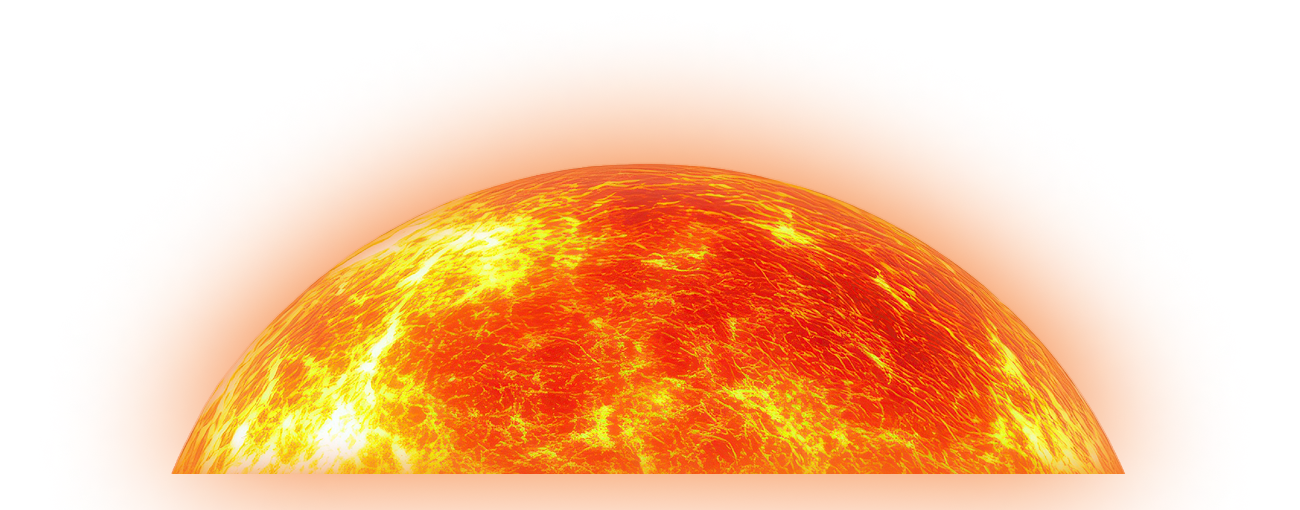
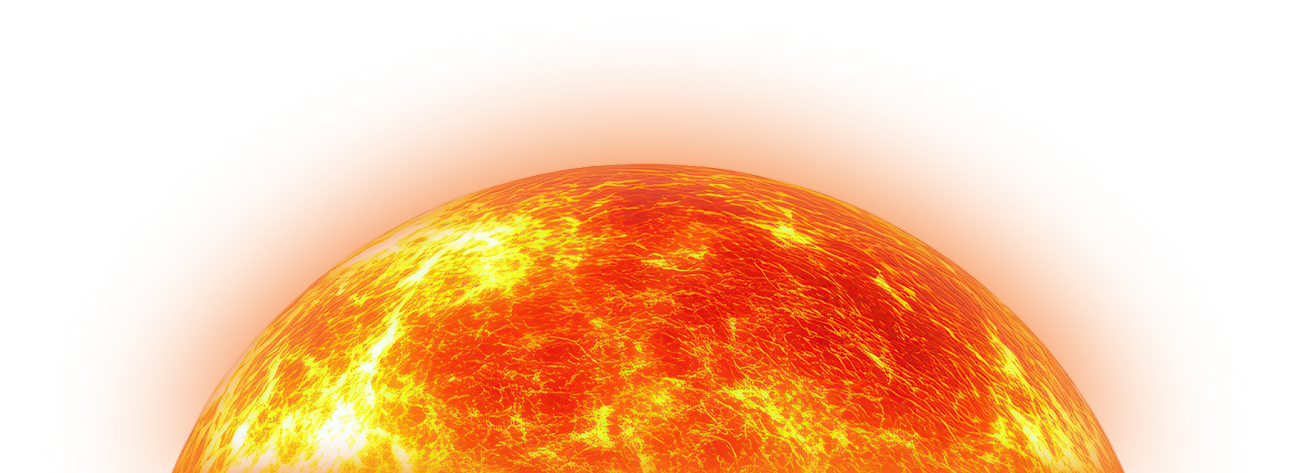
Caixa grande feita

Changed region(s): [[0.1231, 0.296, 0.8615, 1.0]]

diff --git a/css/style.css b/css/style.css
@@ -398,26 +398,84 @@ button {
     margin: 10px;
 }
 
---- carrossel --------
+/*CARROSSEL*/
+
+/*CAIXA GRANDE*/
+.caixa-G{
+  justify-self: center;
+  width: 300px;
+  height: 350px;
+  border: 1px solid #fff;
+  border-radius: 10px;
+  box-shadow: var(--brilho);
+  align-content: end;
+}
+
+.caixa-G:hover{
+  box-shadow: var(--brilho-2);
+}
+
+.nome-planeta{
+  position: relative;
+  top: -20px;
+  width: 100px;
+  padding: 5px;
+  text-align: center;
+  border-radius: 10px;
+  background-color: #fff;
+  font-family: var(--ff-bruno);
+  font-size: var(--h4-20);
+  justify-self: center;
+}
+
+.planeta{
+  display: flex;
+  justify-content: center;
+  padding-bottom: 10px;
+}
+
+.planeta img{
+  align-self: center;
+  width: 200px;
+}
+
+.meia-caixa-G{
+  background-color: hsl(246, 20%, 47%, 0.5);
+  border-radius: 0px 0px 10px 10px;
+  box-shadow: none;
+  height: 100px;
+  border-top: 1px solid #fff;
+  text-align: justify;
+  color: #fff;
+  font-family: var(--ff-bruno);
+  font-size: 14px;
+  padding: 10px 25px;
+}
+
+
 
 button:hover {
     background: rgba(255, 255, 255, 0.5);
 }
 
+.item {
+  display: flex;
+  justify-content: center; 
+  align-items: center;
+  width: 100%;
+}
   
-  .item {
-    display: flex;
-    justify-content: center; 
-    align-items: center;
-    width: 100%;
-  }
-  
-  footer {
-    display: flex;
-    justify-content: center; 
-    align-items: center; 
-    padding: 20px;
-    color: white; 
-    text-align: center; 
-  }
+footer {
+  display: flex;
+  flex-direction: column;
+  justify-content: center; 
+  align-items: center; 
+  color: white; 
+  text-align: center; 
+}
+
+footer p{
+  position: relative;
+  bottom: -450px;
+}
   

diff --git a/index.html b/index.html
@@ -81,17 +81,19 @@
                 <img class="linhas">
             </div>
       
-
-        
-
-        <div class="carrosel-sol">
-            <div class="item">
-                <img  class="sol" src="img/sol.png" alt="imagem-sol">
+        <div class="caixa-G">
+            <div class="nome-planeta"><p>Terra</p></div>
+            <div class="planeta"><img src="img/terra.png"></div>
+            <div class="meia-caixa-G">
+                <p>Lorem ipsum dolor sit amet consectetur adipisicing elit.
+                 Maxime at perferendis obcaecati, earum porro.
+                </p>
             </div>
         </div>
 
         <footer>
             <p>&copy; 2025 Sistema Solar. Todos os direitos reservados.</p>
+            <img  class="sol" src="img/sol.png" alt="imagem-sol">
         </footer>
 
     </main>
